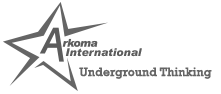
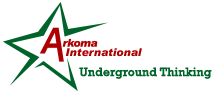
lskdjf

Changed region(s): [[0.0, 0.0213, 0.9774, 0.9574], [0.4615, 0.234, 0.4887, 0.2553]]

diff --git a/index.html b/index.html
@@ -36,9 +36,9 @@
       <div class = "about">
         <div class = "container">
 
-		  <h1 style = "text-align:center;">About us</h1>
-		  <h2 style = "text-align:center; color: grey; padding-bottom:15px;">General Partner of the Maxximus Royalty and Maxximus Oil & Gas investment funds</h2>
-		  <p>Our funds are designed specifically for non-U.S. investors under Regulation S. Maxximus Royalty, L.P. is our first fund, dedicated to buy Oil & Gas Mineral Rights mainly in the Western Gulf Basin in South Texas (Eagle Ford Formation), Williston Basin in North Dakota (Bakken Formation), Texas Louisiana Salt Basin (Haynesville Formation) and Permian Basin in West Texas (several formations). Our strategy is about diversifying the risk through the investment of our funds in Oil and Gas in several properties and managed by different operators . We are currently completing a $30 million dollar round for Maxximus Royalty to invest in Mineral Rights. Our investors can participate by buying notes through their existing Brokers!</p>
+		  <h1 style = "text-align:center; color: #b42d38;;">About us</h1>
+		  <h2 style = "padding-bottom:15px;">Dominion Petrogas is the General Partner of the Maxximus Royalty Investment Fund</h2>
+		  <p style = "text-align:justify;">Our funds are structured under Regulation S and are designed specifically for non-U.S. investors. Maxximus Royalty, L.P. is dedicated to buying Oil & Gas Mineral Rights mainly in the Western Gulf Basin in South Texas (Eagle Ford Formation), Williston Basin in North Dakota (Bakken Formation), Texas Louisiana Salt Basin (Haynesville Formation) and Permian Basin in West Texas (several formations). Our strategy is about diversifying the risk through the investment of our funds in Oil and Gas in several properties, managed by different operators. We are currently completing a $30 million dollar round for Maxximus Royalty to invest in Mineral Rights. Our investors can participate by buying notes through their existing Brokers!</p>
 
         </div>
 
@@ -49,17 +49,17 @@
         <div class = "container">
           <div class = "row" style = "padding-top:50px;">
 			<div class = "col-md-6">
-				<h2><span class="glyphicon glyphicon-fire"></span>   Mission</h2>
-				<p>“To produce the highest return for our Investors through the intelligent investment of our Funds’ resources in Oil & Gas Minerals and Wells Development in the United States”</p>
+				<h2><span class="glyphicon glyphicon-fire" style = "color: #b42d38;"></span>   Mission</h2>
+				<p>"To produce the highest return for our Investors through the intelligent investment of our Funds’ resources in Oil & Gas Minerals and Wells Development in the United States."</p>
 			</div>
 			<div class = "col-md-6">
-				<h2><span class="glyphicon glyphicon-screenshot"></span>   Vision</h2>
-				<p>“To manage one of the largest, most profitable and most trustable U.S. small-cap Oil and Gas Fund catered to foreign investors"</p>
+				<h2><span class="glyphicon glyphicon-screenshot" style = "color: #b42d38;"></span>   Vision</h2>
+				<p>"To manage one of the largest, most profitable and most trustable U.S. small-cap Oil and Gas Fund catered to foreign investors."</p>
 			</div>
 			</div>
 		<div class = "row" style = "padding-top:20px; padding-bottom: 50px;">
 			<div class = "col-md-6">
-				<h2><span class="glyphicon glyphicon-transfer"></span>   Strategic Partnership</h2>
+				<h2><span class="glyphicon glyphicon-transfer" style = "color: #b42d38;"></span>   Strategic Partnership</h2>
 				<p>We partnered with Arkoma International, LLC, one of the most reputable Minerals acquisition companies in the United States. Arkoma has bought Oil & Gas Mineral Interests since 1983.</p>
 			</div>
 		</div>
@@ -68,25 +68,28 @@
 
 	<div class = "prospects">
         <div class = "container">
+          <img src = "img/maxximus-logo.jpg" class = "img-responsive center-block" style = "width: 200px;"></img>
 			<h2 style = "text-align:center;">Maxximus Royalty, L.P.  invests in the following type of Mineral prospects:</h2>
           <div class = "row" style = "padding-top:50px;">
-			<div class = "col-md-6">
-				<h2><span class="glyphicon glyphicon-oil"></span>   Producing Properties</h2>
-				<p>We invest in units that are already producing hydrocarbons and cash flow with room to grow.</p>
+			<div class = "col-md-5">
+				<h2><span class="glyphicon glyphicon-oil" style = "color: #b42d38;"></span>   Producing Properties</h2>
+				<p>We invest in units that are already producing hydrocarbons and generating cash flow with room to grow.</p>
 			</div>
+      <div class = "col-md-1"></div>
 			<div class = "col-md-6">
-				<h2><span class="glyphicon glyphicon-tint"></span>   Shale Plays</h2>
+				<h2><span class="glyphicon glyphicon-tint" style = "color: #b42d38;"></span>   Shale Plays</h2>
 				<p>We acquire Mineral interests in units where horizontal wells are developed and produced. </p>
 			</div>
 			</div>
 		<div class = "row" style = "padding-top:20px; padding-bottom: 50px;">
-			<div class = "col-md-6">
-				<h2><span class="glyphicon glyphicon-wrench"></span>  Reputable Operators</h2>
-				<p>We only invest where the unit is operated by financially healthy companies with a solid balance sheet. </p>
+			<div class = "col-md-5">
+				<h2><span class="glyphicon glyphicon-circle-arrow-up" style = "color: #b42d38;"></span>  Upside</h2>
+				<p style = "text-align:justify;">Our investments in Minerals are directed to opportunities where we the acquisition price secures a return for our investors, more wells will be drilled in our properties, there are several formations where hydrocarbons may be produced and new technology will increase the production in specific formations.</p>
 			</div>
-			<div class = "col-md-6">
-				<h2><span class="glyphicon glyphicon-circle-arrow-up"></span>  Upside</h2>
-				<p>Our investments in Minerals are directed to opportunities where we the acquisition price secures a return for our investors, more wells will be drilled in our properties, there are several formations where hydrocarbons may be produced and new technology will increase the production in specific formations.</p>
+      <div class = "col-md-1"></div>
+      <div class = "col-md-6">
+				<h2><span class="glyphicon glyphicon-wrench" style = "color: #b42d38;"></span>  Reputable Operators</h2>
+				<p>We only invest where the unit is operated by financially healthy companies with a solid balance sheet. </p>
 			</div>
 		</div>
 	  </div>
@@ -95,7 +98,7 @@
 	<div class = "investments">
 		<div class = "container">
 			<h2 style = "text-align: center; color: #ecf0f1; padding-top: 50px;">We have identified potential mineral acquisitions worth more than $400 Million dollars</h2>
-			<img class = "img-responsive center-block" src = "img/map.png" style = "padding-top: 50px; padding-bottom: 75px;"></img>
+			<img class = "img-responsive center-block" src = "img/map.png" style = "width: 500px;padding-top: 50px; padding-bottom: 75px;"></img>
 		</div>
 	</div>
 

diff --git a/contact/index.html b/contact/index.html
@@ -31,7 +31,14 @@
     <div class = "contact">
       <div class = "container">
         <h1 style = "text-align: center; padding-bottom: 20px;">Contact</h2>
-        <iframe src="https://docs.google.com/forms/d/e/1FAIpQLSfhaGUgw0xk3zOJjvbfiRCr8p48QnWLN8pTYo_7vWYGZSfqhA/viewform?embedded=true" width="100%" height="1100" frameborder="0" marginheight="0" marginwidth="0">Loading...</iframe>
+        <div class = "row" >
+          <div class = "text-center">
+            <a href="../" class="btn btn-lg btn-danger" style = "width: 200px;">Back</a>
+          </div>
+        </div>
+        <div style = "padding-top: 25px;">
+          <iframe src="https://docs.google.com/forms/d/e/1FAIpQLSfhaGUgw0xk3zOJjvbfiRCr8p48QnWLN8pTYo_7vWYGZSfqhA/viewform?embedded=true" width="100%" height="1100" frameborder="0" marginheight="0" marginwidth="0">Loading...</iframe>
+        </div>
       </div>
     </div>
 
